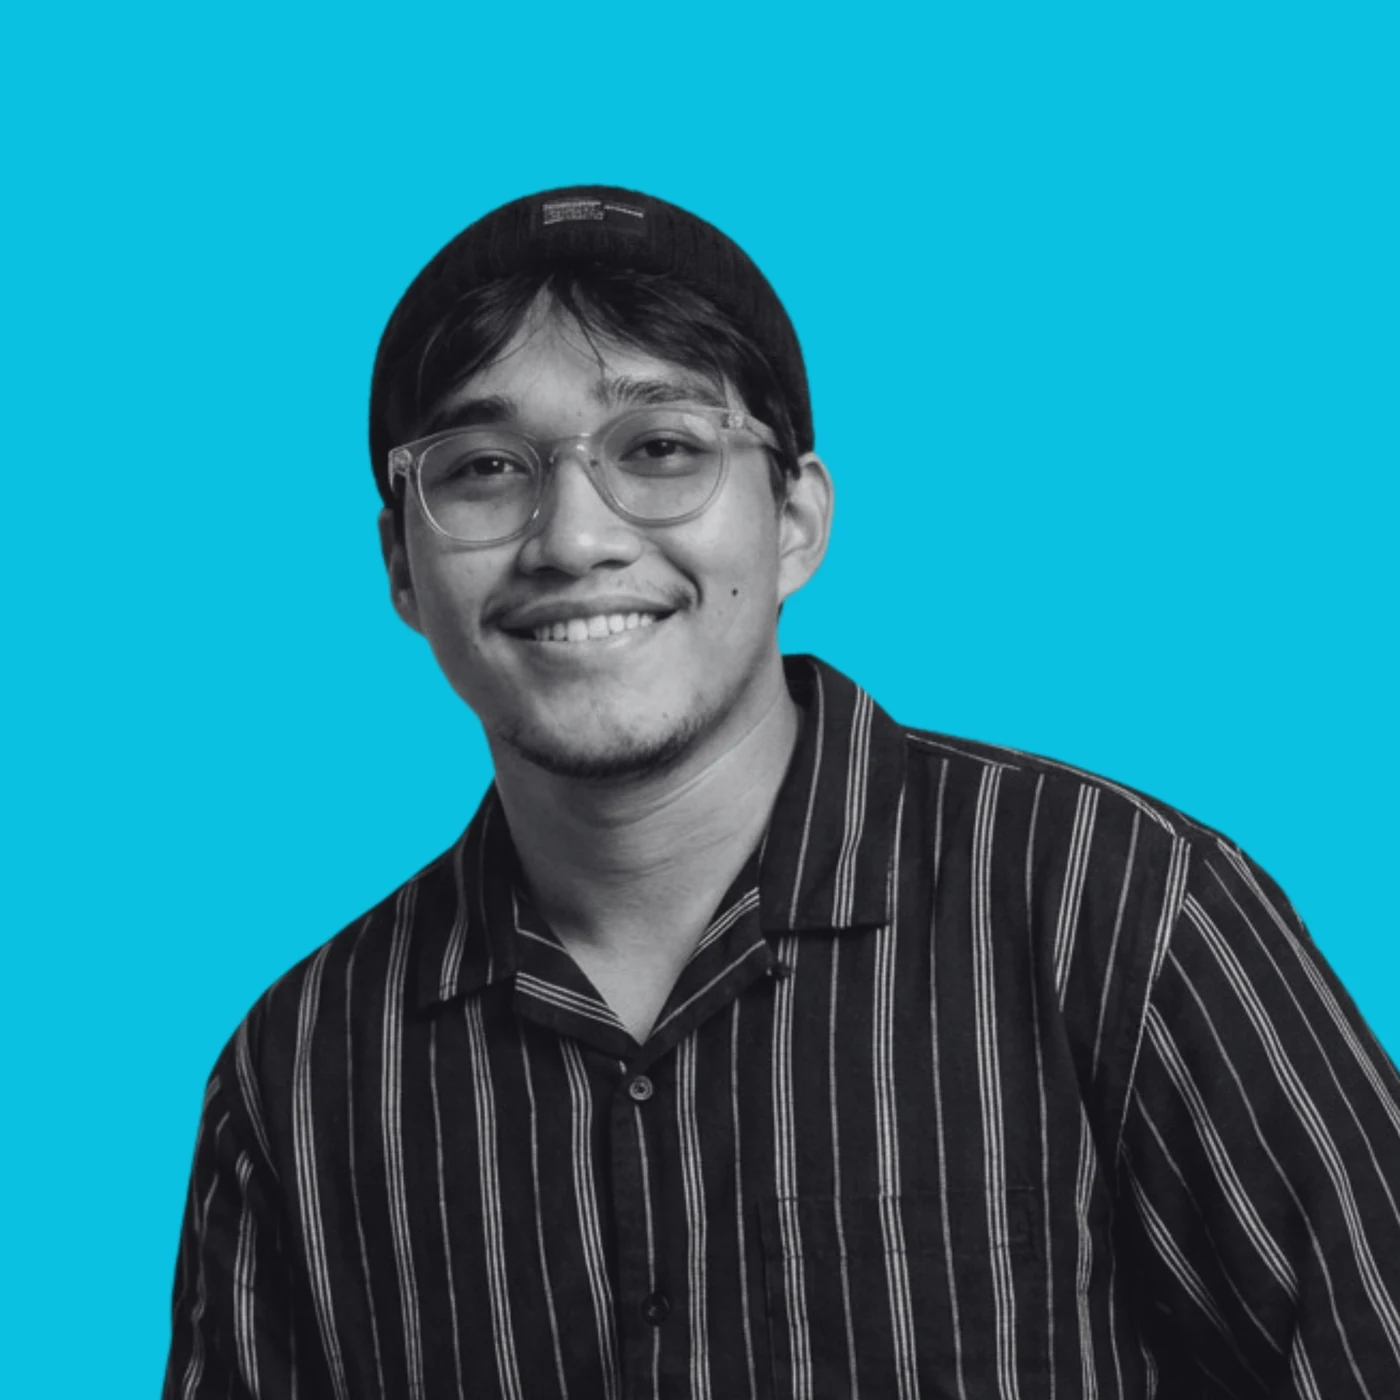
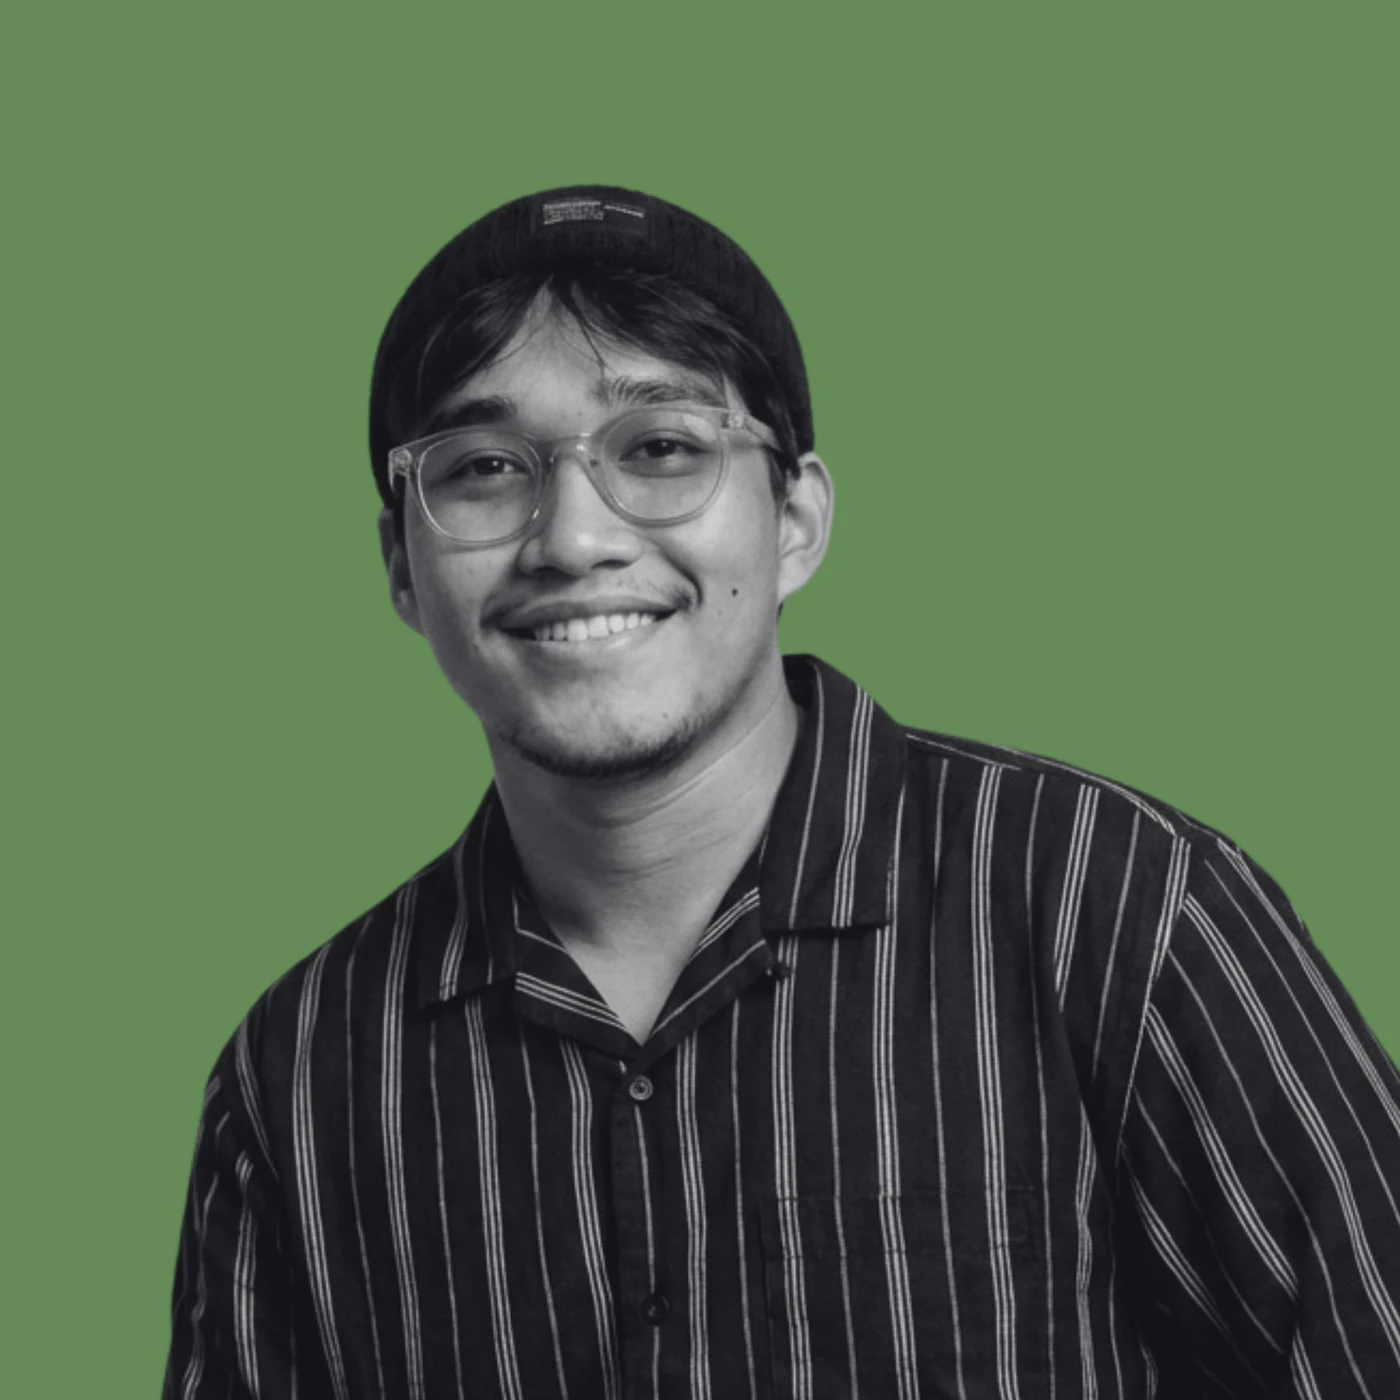
feat: the site sits on a sheet, and the portrait changes
Content is now a single bordered sheet centred on a grey ground, the way a
document page sits on a desk. Measure stays under control and the rules
around each block finally have an edge to relate to. The sticky header takes
the sheet's own colour so it does not read as a separate bar floating above
the page.

Portrait switched to 5.jpg. The square's fill matches that photo's backdrop,
so nothing flashes teal before the image paints.

diff --git a/src/app/globals.css b/src/app/globals.css
@@ -140,7 +140,8 @@
     "PP Neue Montreal", "Neue Montreal", var(--font-grotesk), ui-sans-serif,
     system-ui, sans-serif;
 
-  --background: oklch(0.985 0.001 100);
+  --background: oklch(0.94 0.002 100);
+  --sheet: #ffffff;
   --foreground: #2d2d2c;
 
   --card: oklch(1 0 0);
@@ -216,15 +217,15 @@ html {
 }
 
 .pill-glass {
-  border: 1px solid var(--border);
-  background: oklch(1 0 0 / 82%);
+  border: var(--stroke) solid var(--border);
+  background: color-mix(in oklab, var(--sheet) 90%, transparent);
   backdrop-filter: blur(14px) saturate(140%);
   -webkit-backdrop-filter: blur(14px) saturate(140%);
 }
 
 @media (prefers-reduced-transparency: reduce) {
   .pill-glass {
-    background: var(--card);
+    background: var(--sheet);
     backdrop-filter: none;
     -webkit-backdrop-filter: none;
   }
@@ -236,7 +237,8 @@ html {
 --------------------------------------------------------------------------- */
 
 .dark {
-  --background: oklch(0.165 0.003 285);
+  --background: oklch(0.132 0.003 285);
+  --sheet: oklch(0.185 0.004 285);
   --foreground: oklch(0.955 0.002 100);
 
   --card: oklch(0.212 0.004 285);
@@ -278,12 +280,12 @@ html.dark {
 }
 
 .dark .pill-glass {
-  background: oklch(0.212 0.004 285 / 78%);
+  background: color-mix(in oklab, var(--sheet) 90%, transparent);
 }
 
 @media (prefers-reduced-transparency: reduce) {
   .dark .pill-glass {
-    background: var(--card);
+    background: var(--sheet);
   }
 }
 
@@ -326,4 +328,10 @@ html.dark {
 }
 .border-r {
   border-right-width: var(--stroke);
+}
+
+/* The page sits on the ground as a single sheet, the way a document does. */
+.sheet {
+  background: var(--sheet);
+  border: var(--stroke) solid var(--border);
 }

diff --git a/src/components/site/hero.tsx b/src/components/site/hero.tsx
@@ -42,7 +42,7 @@ export function Hero() {
           <m.div
             {...rise(0)}
             className="relative aspect-square w-24 shrink-0 overflow-hidden border-2 border-border sm:w-40 lg:w-[13.875rem]"
-            style={{ background: "var(--teal)" }}
+            style={{ background: "#546f4c" }}
           >
             <Image
               src={person.portrait}
@@ -116,12 +116,12 @@ export function Hero() {
               {!reduceMotion ? (
                 <span
                   className="absolute inline-flex size-full animate-ping rounded-full opacity-70"
-                  style={{ background: "var(--teal)" }}
+                  style={{ background: "#546f4c" }}
                 />
               ) : null}
               <span
                 className="relative inline-flex size-2.5 rounded-full"
-                style={{ background: "var(--teal)" }}
+                style={{ background: "#546f4c" }}
               />
             </span>
             {t(availability.label, locale)}

diff --git a/src/app/[locale]/layout.tsx b/src/app/[locale]/layout.tsx
@@ -71,9 +71,15 @@ export default async function LocaleLayout({
       suppressHydrationWarning
       className={`${grotesk.variable} ${spaceMono.variable} h-full antialiased`}
     >
-      <body className="flex min-h-full flex-col bg-background text-foreground">
+      <body className="min-h-full bg-background text-foreground">
         <ThemeProvider>
-          <LocaleProvider locale={locale}>{children}</LocaleProvider>
+          <LocaleProvider locale={locale}>
+            <div className="mx-auto w-full max-w-[82rem] px-0 sm:px-6 sm:py-8">
+              <div className="sheet flex min-h-[calc(100dvh-4rem)] flex-col">
+                {children}
+              </div>
+            </div>
+          </LocaleProvider>
         </ThemeProvider>
       </body>
     </html>
